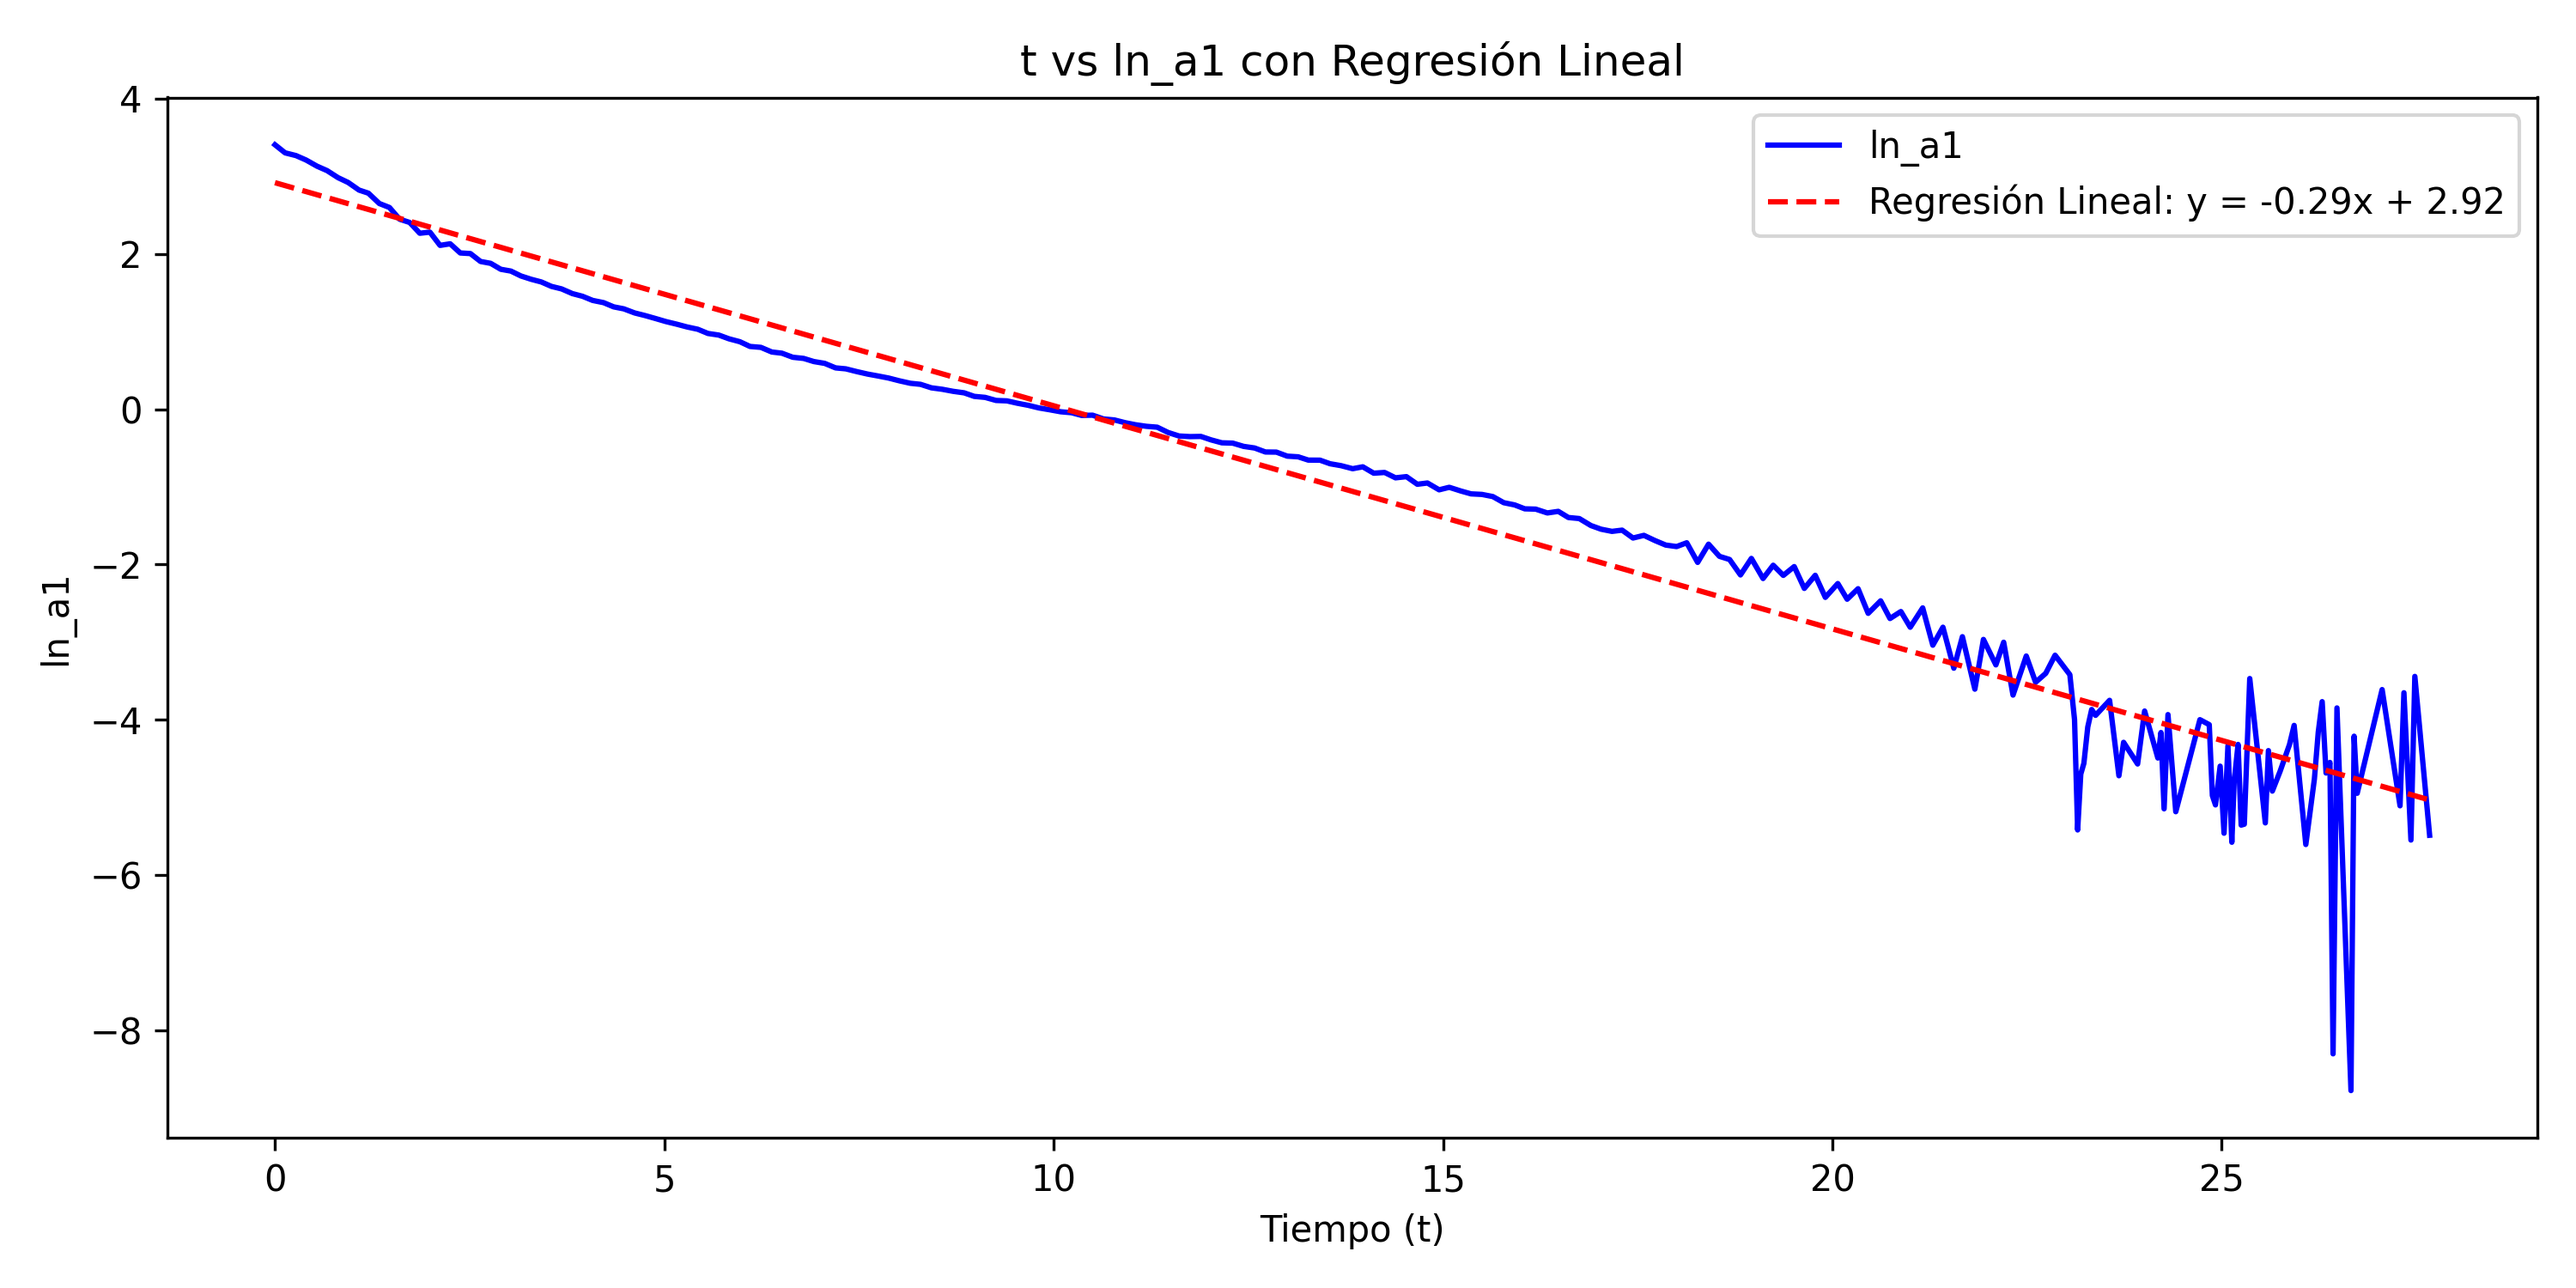
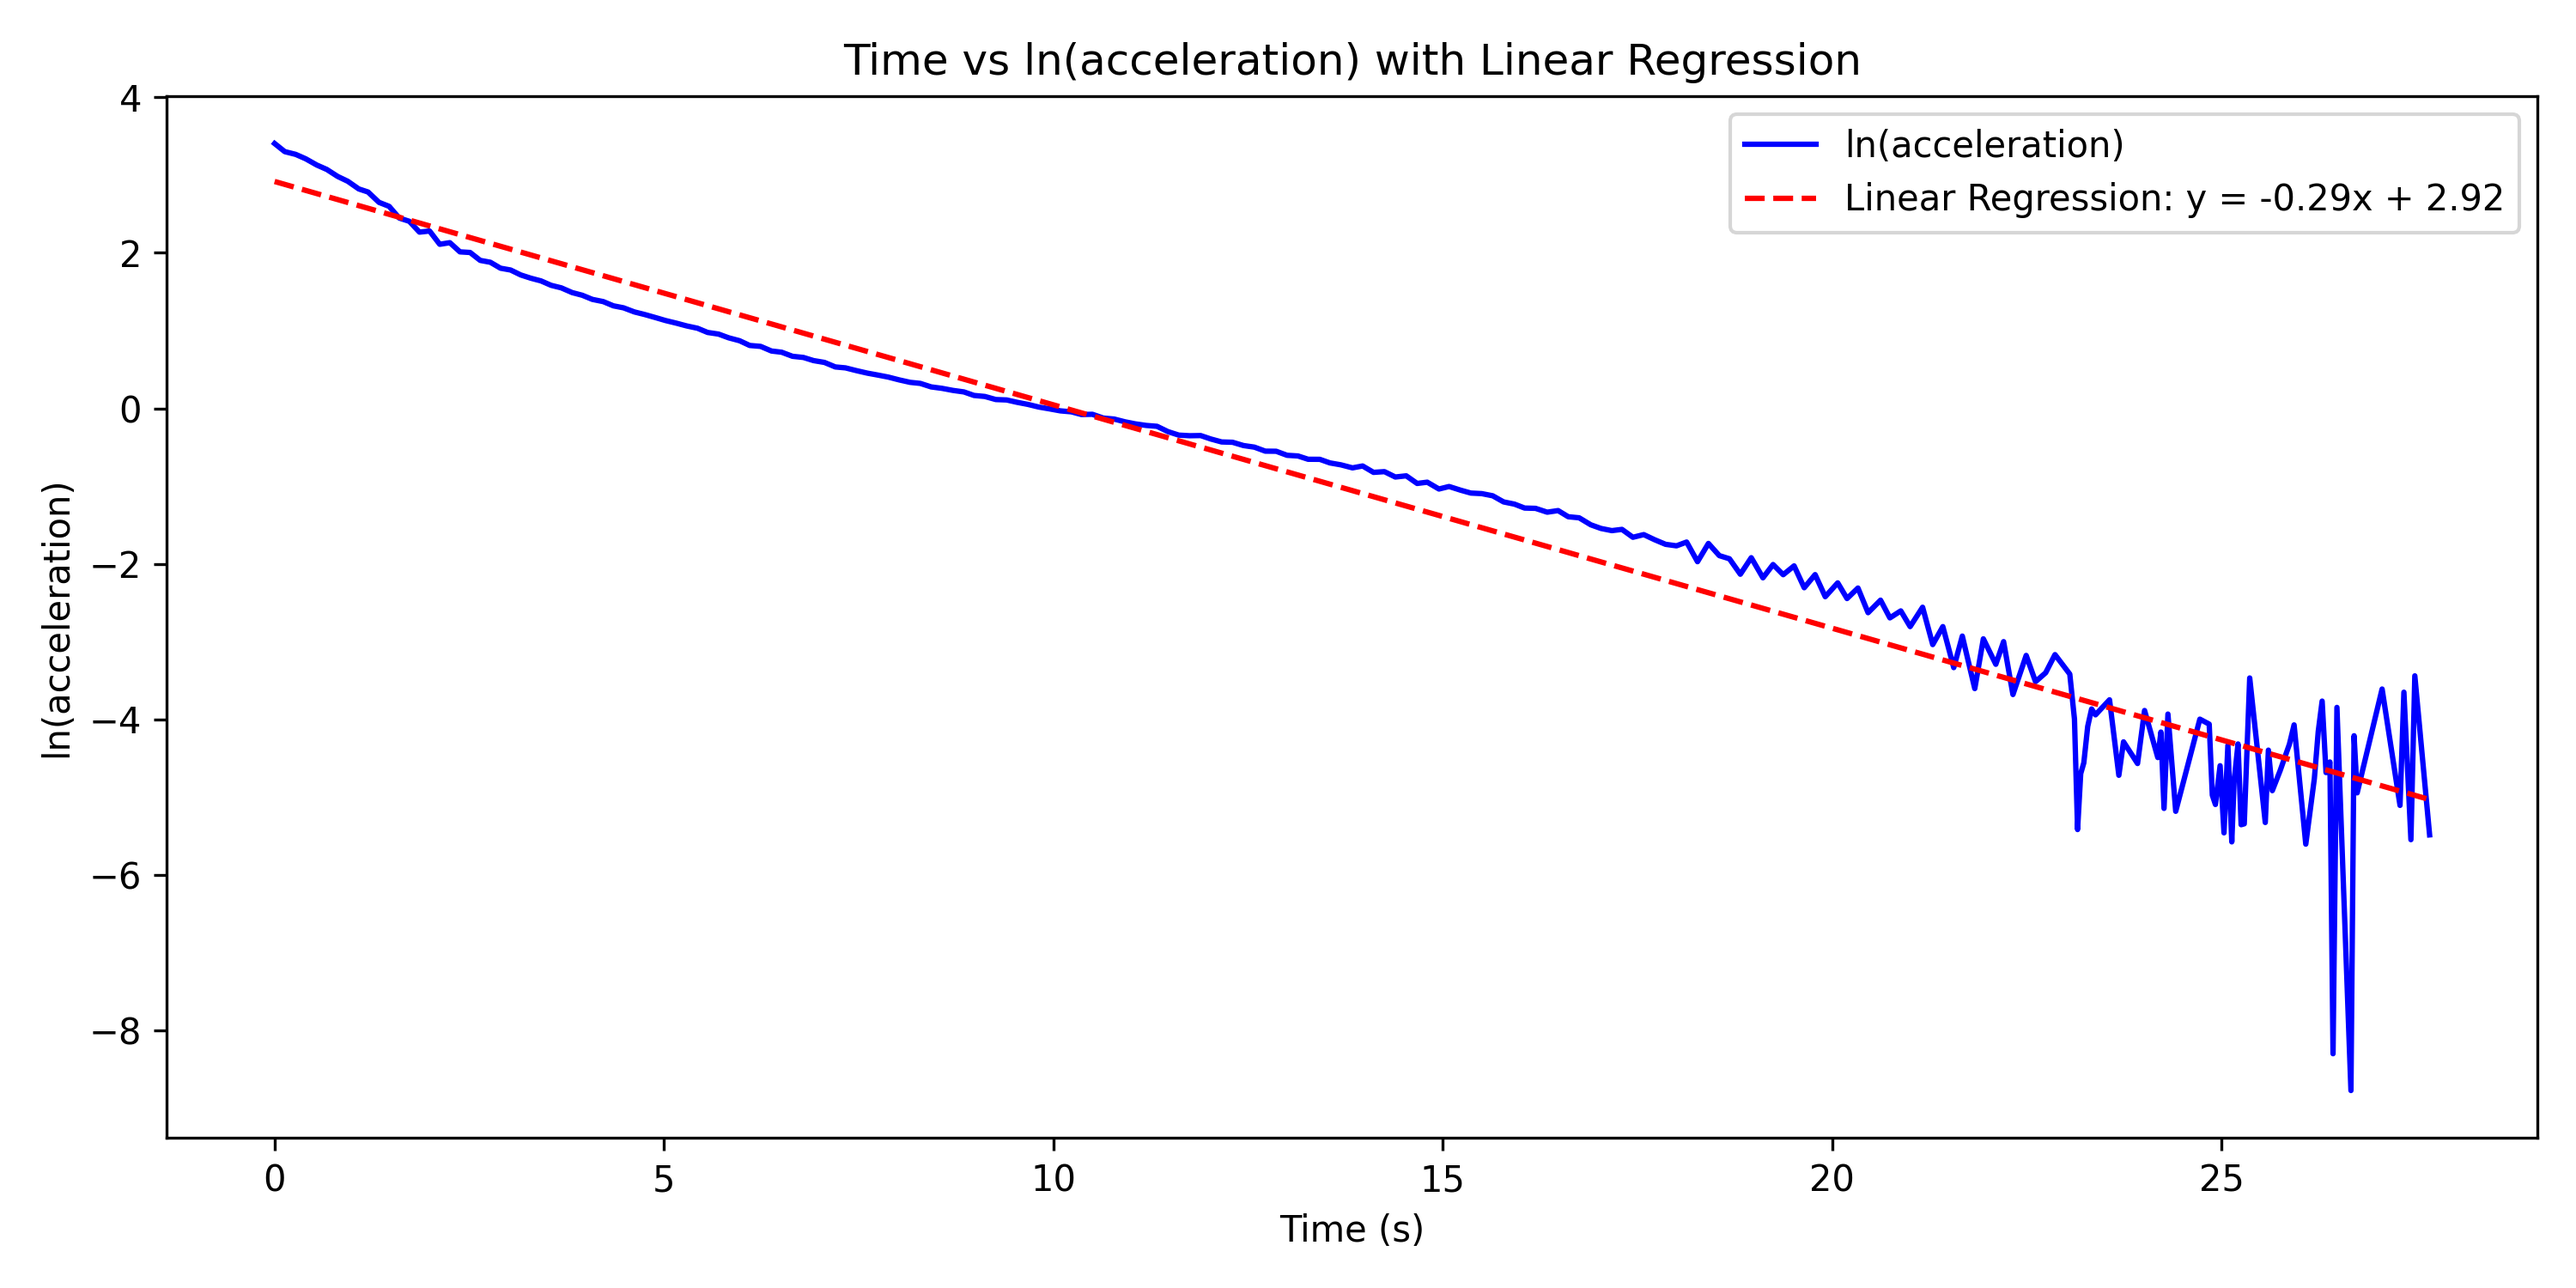
avance resultados

diff --git a/INFORME/Informe.tex b/INFORME/Informe.tex
@@ -247,6 +247,7 @@ With this parameter, we can determine the damping ratio of the system using the 
 
 \begin{equation}
 \beta = \frac{\delta}{\sqrt{4\pi^2 + \delta^2}}
+\label{eq:log_dec}
 \end{equation}
 Where:
 \begin{itemize}
@@ -383,6 +384,49 @@ Post-processing of the data enabled the identification of the system’s dynamic
 
 \newpage
 \section{Results}
+ 
+\subsection{Pull-back Test}
+\subsubsection{Determination of the damping period, natural period and damping ratio}
+To determine the period of the systems, we used the logarithmic decrement method. This method is based on the analysis of the acceleration signal obtained from the accelerometer during the pull-back test. The logarithmic decrement is calculated using equation (\ref{eq:log_dec}).\\
+First, we analised the acceleration signal obtained from the system without damping (system 1). The signal was detrended and filtered to remove unwanted components. After that, we calculated the logarithmic decrement and plotted the results that are shown in Figure~\ref{fig:pullback1}.
+
+
+
+\begin{figure}[h]
+  \centering
+  \includegraphics[width=0.8\textwidth]{GRAFICOS/regresion_lineal_first.png}
+  \caption{Logarithmic decrement of the pull-back test.}
+  \label{fig:pullback1}  
+\end{figure}
+
+Then, we analised the acceleration signal obtained from the system with damping (system 2). The signal was detrended and filtered to remove unwanted components. The resulting signal is shown in Figure~\ref{fig:pullback2}.
+
+\begin{figure}[h]
+  \centering
+  \includegraphics[width=0.8\textwidth]{GRAFICOS/regresion_lineal_second.png}
+  \caption{Logarithmic decrement of the pull-back test.}
+  \label{fig:pullback2}  
+\end{figure}
+
+\begin{table}[h]
+\centering
+  \begin{tabular}{|c|c|c|}
+  \hline
+  \textbf{Item}& \textbf{System 1}& \textbf{System 2} \\ \hline
+  \textbf{$\omega_n$(rad/s)} & 23.96 & 25.2  \\ \hline
+  \textbf{Natural Period (s)} & 0.262246& 0.249264  \\ \hline
+  \textbf{Damping ratio} & 0.0118&0.0114  \\ \hline
+  \textbf{Dumping Period(s)} & 0.262282&0.249296  \\ \hline
+  \end{tabular}
+\caption{Natural period, Dumping period and damping ratio from logarithmic decrement of the pull-back test.}
+\label{tab:pullback}
+\end{table}
+
+
+\subsection{Test with harmonic vibration at the base of varying fraequencies}
+
+\subsection{Seismic test with real earthquake records}
+
 
 
 

diff --git a/CODE/pullback.py b/CODE/pullback.py
@@ -157,15 +157,15 @@ def regrecion_lineal (data, title):
     plt.figure(figsize=(10, 5))
 
     # Gráfico de ln_a1
-    plt.plot(data['t'], data['ln_a1'], label='ln_a1', color='blue')
+    plt.plot(data['t'], data['ln_a1'], label='ln(acceleration)', color='blue')
 
     # Gráfico de la línea de regresión
-    plt.plot(data['t'], regression_line, label=f'Regresión Lineal: y = {slope:.2f}x + {intercept:.2f}', color='red', linestyle='--')
+    plt.plot(data['t'], regression_line, label=f'Linear Regression: y = {slope:.2f}x + {intercept:.2f}', color='red', linestyle='--')
 
     # Título y etiquetas
-    plt.title('t vs ln_a1 con Regresión Lineal')
-    plt.xlabel('Tiempo (t)')
-    plt.ylabel('ln_a1')
+    plt.title('Time vs ln(acceleration) with Linear Regression')
+    plt.xlabel('Time (s)')
+    plt.ylabel('ln(acceleration)')
 
     # Mostrar la leyenda
     plt.legend()
